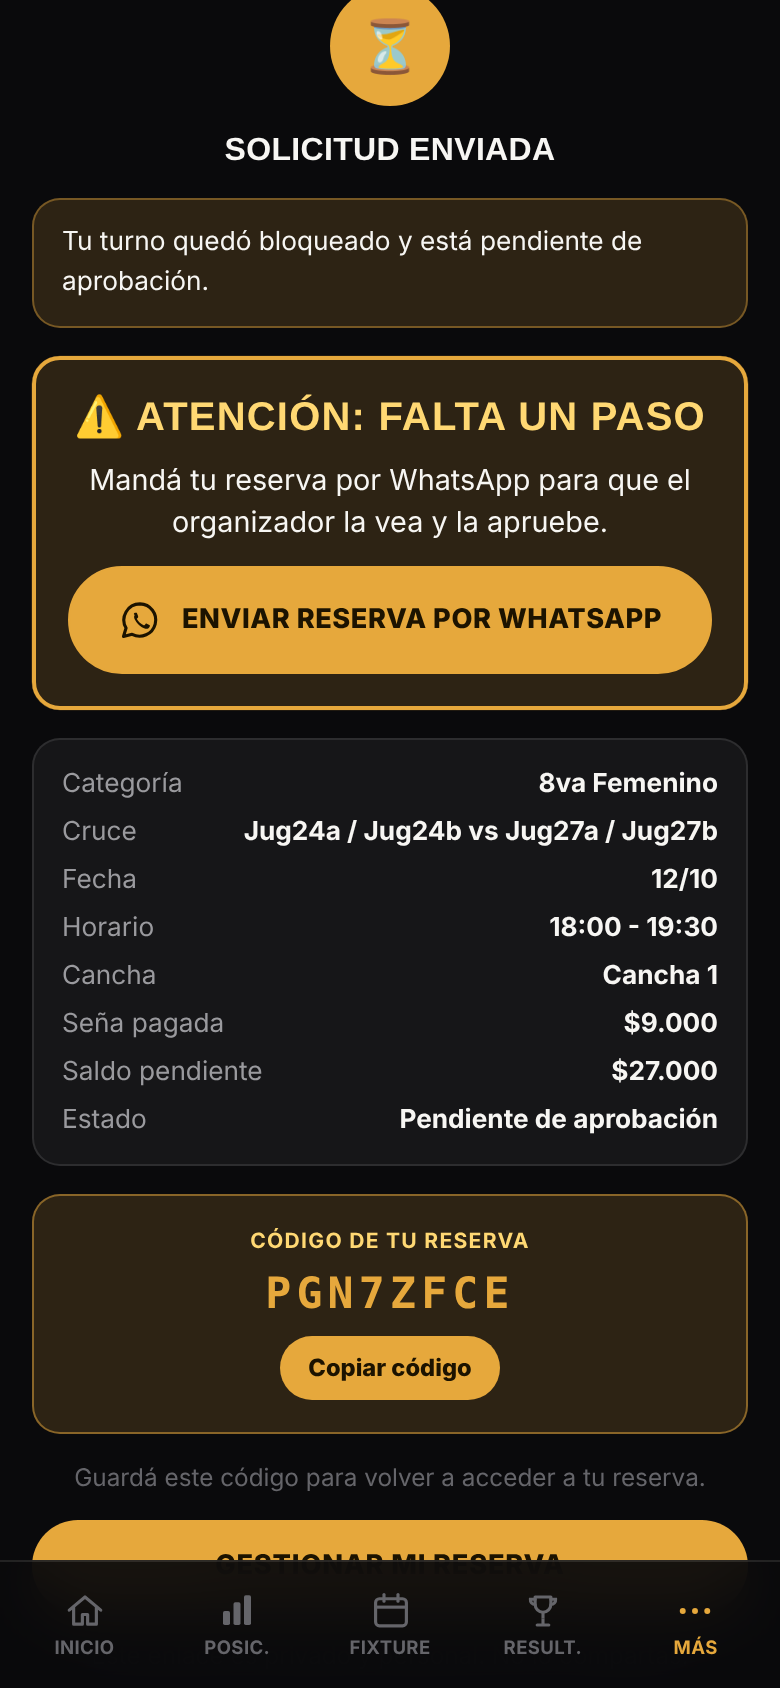
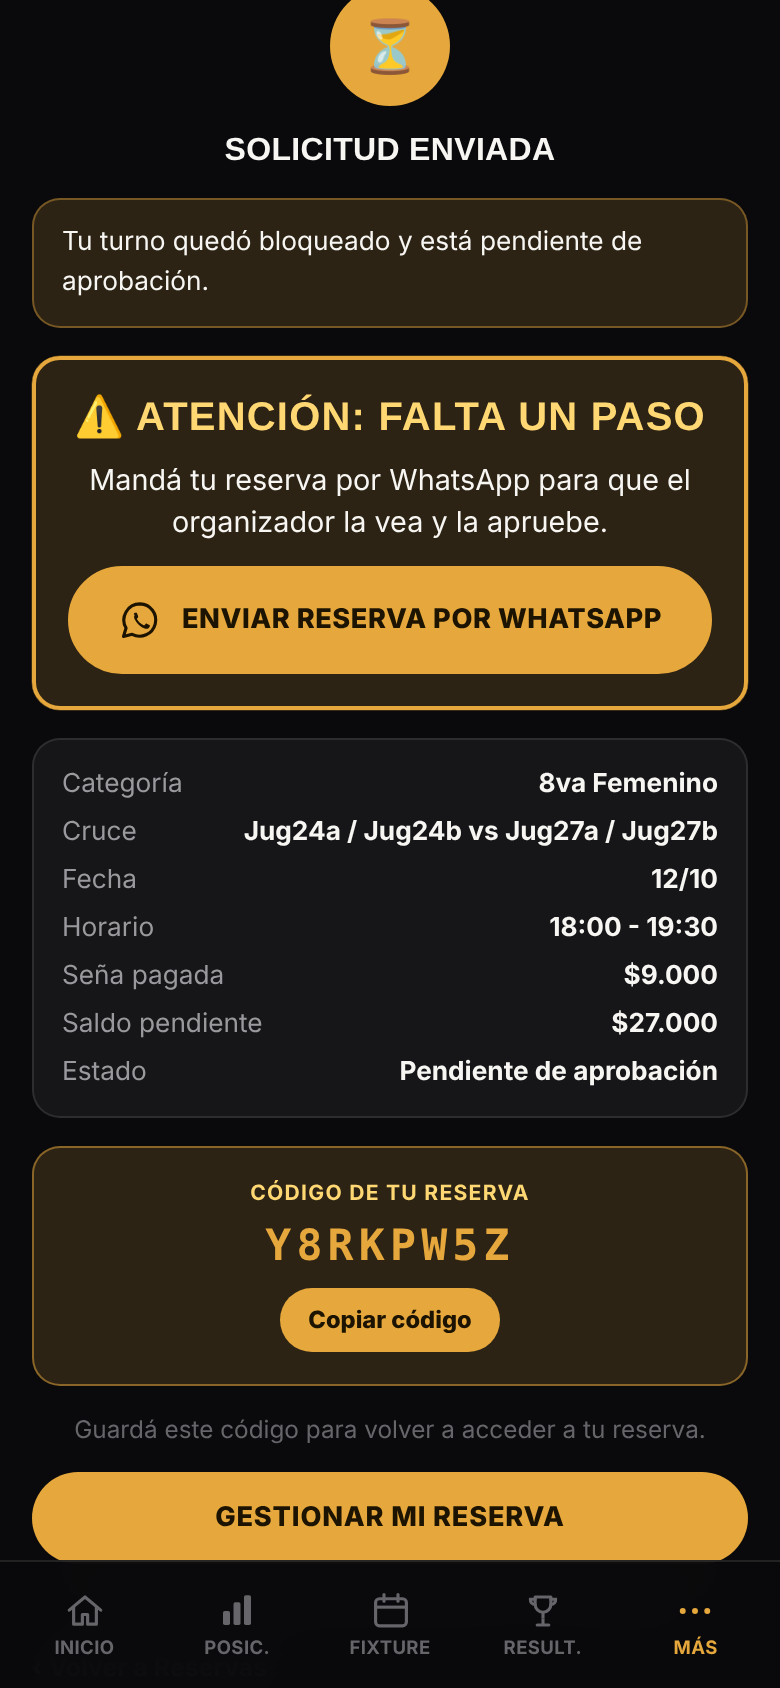
Reservas agrupadas por mes, eliminar reserva, sets sin guion (64 = 6-4) y sin número de cancha para los jugadores
Claude-Session: https://claude.ai/code/session_01FJKeqShRhyuBM813kWYo1L

Changed region(s): [[0.0308, 0.5545, 0.9846, 0.9242]]

diff --git a/organizador.js b/organizador.js
@@ -297,13 +297,31 @@
       if (f === 'pendientes') actualizarBadge(lista.length);
       var cont = $('#orgListaRes');
       if (!lista.length) { cont.innerHTML = '<p class="state-empty">' + VACIO_RES[f] + '</p>'; return; }
-      cont.innerHTML = (f === 'historial' || f === 'completas' || f === 'rechazadas' ? '<p class="org-muted">' + lista.length + ' reserva(s)</p>' : '') +
-        lista.map(tarjetaReserva).join('');
+      if (f === 'pendientes' || f === 'proximas') { cont.innerHTML = lista.map(tarjetaReserva).join(''); return; }
+      cont.innerHTML = '<p class="org-muted">' + lista.length + ' reserva(s)</p>' + porMes(lista);
     }).catch(errorVista);
   }
 
+  var MESES = ['Enero', 'Febrero', 'Marzo', 'Abril', 'Mayo', 'Junio', 'Julio', 'Agosto', 'Septiembre', 'Octubre', 'Noviembre', 'Diciembre'];
+  // Agrupa las reservas por mes del partido (el más reciente primero y abierto).
+  function porMes(lista) {
+    var grupos = {}, orden = [];
+    lista.forEach(function (r) {
+      var k = String(r.fecha || '').slice(0, 7);
+      if (!grupos[k]) { grupos[k] = []; orden.push(k); }
+      grupos[k].push(r);
+    });
+    orden.sort().reverse();
+    return orden.map(function (k, i) {
+      var p = k.split('-');
+      var titulo = p.length === 2 ? MESES[Number(p[1]) - 1] + ' ' + p[0] : 'Sin fecha';
+      return '<details class="org-mes"' + (i === 0 ? ' open' : '') + '><summary><b>' + esc(titulo) + '</b><span class="org-muted">' + grupos[k].length + '</span></summary>' +
+        grupos[k].map(tarjetaReserva).join('') + '</details>';
+    }).join('');
+  }
+
   function mensajeWa(r, tipo) {
-    var base = r.categoria + ': ' + r.parejaA + ' vs ' + r.parejaB + '\n📅 ' + fechaCorta(r.fecha) + ' · ' + r.horarioInicio + ' a ' + r.horarioFin + (r.cancha ? '\n🎾 Cancha ' + r.cancha : '');
+    var base = r.categoria + ': ' + r.parejaA + ' vs ' + r.parejaB + '\n📅 ' + fechaCorta(r.fecha) + ' · ' + r.horarioInicio + ' a ' + r.horarioFin + '';
     var nombre = (r.nombreSolicitante || '').split(' ')[0];
     if (tipo === 'aprobada') return '¡Hola ' + nombre + '! Tu reserva de la Liga Master Pádel 360 quedó CONFIRMADA ✅\n\n' + base + '\nCódigo: ' + r.codigoReserva + '\n\nSaldo a abonar en el club: ' + plata(r.saldoPendiente) + '.';
     if (tipo === 'rechazada') return 'Hola ' + nombre + ', no pudimos confirmar tu solicitud de reserva de la Liga Master Pádel 360:\n\n' + base + '\n\nEl horario quedó libre otra vez. Escribime así lo resolvemos.';
@@ -342,7 +360,7 @@
         return '<input class="org-input org-set" inputmode="numeric" data-set="' + i + '" value="' + esc(p['set' + i]) + '" placeholder="' + (i === 3 ? 'STB' : 'Set ' + i) + '" aria-label="Set ' + i + '">';
       }).join('') +
       '<button class="rsv-btn-aprobar org-guardar-set" data-org="guardar-resultado-res" type="button">Guardar</button></div>' +
-      '<p class="org-muted org-mini">Sets del lado de ' + esc(r.parejaA) + ' (ej: 6-4).</p>' +
+      '<p class="org-muted org-mini">Sets del lado de ' + esc(r.parejaA) + '. Escribí solo los números: 64 = 6-4, 76 = 7-6, 108 = 10-8.</p>' +
     '</div>';
   }
 
@@ -361,13 +379,14 @@
     return '<div class="admin-card org-res org-est-' + e + (r.etapa ? ' org-etapa-' + r.etapa : '') + '" data-res-card="' + esc(r.idReserva) + '" data-res=\'' + esc(JSON.stringify(r)) + '\'>' +
       '<div class="org-res-head"><span class="org-pill">' + esc(etiqueta) + '</span><span class="org-muted">' + esc(r.idReserva) + ' · ' + esc(r.codigoReserva) + '</span></div>' +
       '<div class="org-res-cruce">' + esc(r.parejaA) + ' <span class="org-muted">vs</span> ' + esc(r.parejaB) + '</div>' +
-      '<div class="org-res-meta"><span>' + esc(r.categoria) + '</span><span>📅 ' + esc(fechaCorta(r.fecha)) + ' ' + esc(r.horarioInicio) + '–' + esc(r.horarioFin) + '</span><span>Cancha ' + esc(r.cancha) + '</span></div>' +
+      '<div class="org-res-meta"><span>' + esc(r.categoria) + '</span><span>📅 ' + esc(fechaCorta(r.fecha)) + ' ' + esc(r.horarioInicio) + '–' + esc(r.horarioFin) + '</span></div>' +
       '<div class="org-res-meta"><span>👤 ' + esc(r.nombreSolicitante) + '</span><a href="tel:' + esc(r.telefonoSolicitante) + '">📞 ' + esc(r.telefonoSolicitante) + '</a>' +
         (conDetalle ? '' : '<span>Seña ' + plata(r.montoPagado) + '</span>') + '</div>' +
       (r.comprobanteUrl ? '<a class="admin-comprobante-link" href="' + esc(r.comprobanteUrl) + '" target="_blank" rel="noopener">Ver comprobante</a>' : '<span class="hint-line">Sin comprobante</span>') +
       (conDetalle ? seccionPagos(r) + seccionResultado(r) : '') +
       (acciones ? '<div class="admin-card-actions">' + acciones + '</div>' : '') +
       (e === 'RESERVADO' || (e === 'FINALIZADO' && !(r.partido && r.partido.estado === 'JUGADO')) ? '<button class="org-link org-danger" data-org="cancelar-res" data-id="' + esc(r.idReserva) + '" data-jugada="' + (e === 'FINALIZADO' ? '1' : '') + '" type="button">' + (e === 'FINALIZADO' ? 'Cancelar reserva (no se jugó)' : 'Cancelar turno') + '</button>' : '') +
+      '<button class="org-link org-danger org-eliminar" data-org="eliminar-res" data-id="' + esc(r.idReserva) + '" type="button">Eliminar del sistema</button>' +
       '<div class="org-tras" hidden></div>' +
     '</div>';
   }
@@ -484,7 +503,7 @@
       if (!st.catResultados || cats.indexOf(st.catResultados) === -1) st.catResultados = cats[0];
       var cab = '<div class="org-subtabs">' + cats.map(function (c) {
         return '<button class="chip' + (c === st.catResultados ? ' active' : '') + '" data-org-catres="' + esc(c) + '" type="button">' + esc(c) + '</button>';
-      }).join('') + '</div><div id="orgPartidos"><div class="state-loading">Cargando…</div></div>';
+      }).join('') + '</div><p class="org-muted">Sets del lado de la primera pareja. Escribí solo los números: 64 = 6-4, 76 = 7-6, 108 = 10-8.</p><div id="orgPartidos"><div class="state-loading">Cargando…</div></div>';
       vista().innerHTML = cab;
       return api('adminPartidos', { categoria: st.catResultados }).then(pintarPartidos);
     }).catch(errorVista);
@@ -529,7 +548,7 @@
         }).join('') +
         '<button class="rsv-btn-aprobar org-guardar-set" data-org="guardar-resultado" type="button">Guardar</button>' +
       '</div>' +
-      (p.reserva ? '<div class="org-muted org-mini">Reserva: ' + esc(fechaCorta(p.reserva.fecha)) + ' ' + esc(p.reserva.horarioInicio) + ' · Cancha ' + esc(p.reserva.cancha) + ' · ' + esc(EST_TX[p.reserva.estado]) + '</div>' : '') +
+      (p.reserva ? '<div class="org-muted org-mini">Reserva: ' + esc(fechaCorta(p.reserva.fecha)) + ' ' + esc(p.reserva.horarioInicio) + ' · ' + esc(EST_TX[p.reserva.estado]) + '</div>' : '') +
     '</div>';
   }
 
@@ -809,6 +828,10 @@
         : '¿Cancelar este turno confirmado? El horario y el cruce vuelven a quedar libres.';
       if (!confirm(msj)) return;
       conBoton(el, api('adminCancelarReserva', { idReserva: el.getAttribute('data-id') }), 'Turno cancelado').then(vReservas).catch(function () {});
+    },
+    'eliminar-res': function (el) {
+      if (!confirm('¿Eliminar esta reserva del sistema para siempre? No se puede deshacer. (Si solo no se jugó, usá "Cancelar").')) return;
+      conBoton(el, api('adminEliminarReserva', { idReserva: el.getAttribute('data-id') }), 'Reserva eliminada').then(vReservas).catch(function () {});
     },
     'sem-prev': function () { st.agendaDesde = sumarDias(st.agendaDesde, -7); vAgenda(); },
     'sem-next': function () { st.agendaDesde = sumarDias(st.agendaDesde, 7); vAgenda(); },

diff --git a/cloudflare/worker.js b/cloudflare/worker.js
@@ -78,8 +78,26 @@ function nombresDeTxtPareja(t) {
   const m = /^[A-Za-z]+\d+\s*·\s*(.+)$/.exec(s);
   return m ? m[1].trim() : s;
 }
+// Acepta "6-4", "6/4", "6 4" y también solo números (el teclado del celu no
+// tiene guion): "64" = 6-4, "76" = 7-6, "108" = 10-8, "810" = 8-10, "1210" = 12-10.
+function pareceSetValido(a, b) {
+  const g = Math.max(a, b), p = Math.min(a, b);
+  if (g === 6 && p <= 4) return true;
+  if (g === 7 && (p === 5 || p === 6)) return true;
+  return g >= 10 && g - p >= 2 && (g === 10 || g - p === 2);
+}
 function parsearSet(t) {
-  const m = /^(\d{1,2})\s*[-\/\s]\s*(\d{1,2})$/.exec(txt(t));
+  const s = txt(t).replace(/\s+/g, '');
+  if (/^\d{2,4}$/.test(s)) {
+    for (let i = 1; i < s.length; i++) {
+      const x = s.slice(0, i), y = s.slice(i);
+      if (x.length > 2 || y.length > 2) continue;
+      const a = parseInt(x, 10), b = parseInt(y, 10);
+      if (pareceSetValido(a, b)) return { a, b };
+    }
+    return null;
+  }
+  const m = /^(\d{1,2})\s*[-\/\s.:]\s*(\d{1,2})$/.exec(txt(t));
   if (!m) return null;
   const a = parseInt(m[1], 10), b = parseInt(m[2], 10);
   if (a === b) return null;
@@ -354,7 +372,7 @@ function resolverResultado(set1, set2, set3, idA, idB) {
     const t = txt(s);
     if (!t) return '';
     const p = parsearSet(t);
-    if (!p) falla('El set ' + (i + 1) + ' ("' + t + '") no es válido. Escribilo como 6-4.');
+    if (!p) falla('El set ' + (i + 1) + ' ("' + t + '") no es válido. Escribí los games, por ejemplo 64 (= 6-4) o 108 (= 10-8).');
     return p.a + '-' + p.b;
   });
   let sA = 0, sB = 0;
@@ -922,6 +940,19 @@ async function cambiarEstadoReserva(c, campo, estadoObjetivo) {
 }
 const aAprobarReserva = (c) => cambiarEstadoReserva(c, 'aprobada_ts', EST.RESERVADO);
 const aRechazarReserva = (c) => cambiarEstadoReserva(c, 'rechazada_ts', EST.RECHAZADO);
+
+// Borra una reserva del sistema para siempre (ej: la pareja se dio de baja).
+// Si el partido tenía resultado cargado, el resultado queda; se borra aparte.
+async function aAdminEliminarReserva(c) {
+  await exigirAdmin(c);
+  const id = txt(c.datos.idReserva);
+  const r = await uno(c.db, 'SELECT * FROM reservas WHERE id = ?', id);
+  if (!r) falla('No se encontró esa reserva.');
+  const stmts = [c.db.prepare('DELETE FROM reservas WHERE id = ?').bind(id)];
+  if (r.comprobante_id) stmts.push(c.db.prepare('DELETE FROM archivos WHERE id = ?').bind(r.comprobante_id));
+  await c.db.batch(stmts);
+  return { ok: true, eliminada: id };
+}
 
 async function aAdminCancelarReserva(c) {
   await exigirAdmin(c);
@@ -1574,7 +1605,7 @@ const ACCIONES = {
   confirmarReserva: aConfirmarReserva, consultarReserva: aConsultarReserva, buscarReserva: aBuscarReserva, cancelarReserva: aCancelarReserva,
   // organizador
   adminLogin: aAdminLogin, adminResumen: aAdminResumen, adminReservas: aAdminReservas, listarPendientes: aListarPendientes,
-  aprobarReserva: aAprobarReserva, rechazarReserva: aRechazarReserva, adminCancelarReserva: aAdminCancelarReserva, adminMarcarPago: aAdminMarcarPago,
+  aprobarReserva: aAprobarReserva, rechazarReserva: aRechazarReserva, adminCancelarReserva: aAdminCancelarReserva, adminEliminarReserva: aAdminEliminarReserva, adminMarcarPago: aAdminMarcarPago,
   adminAgenda: aAdminAgenda, adminPartidos: aAdminPartidos, adminGuardarResultado: aAdminGuardarResultado,
   adminFechaEnJuego: aAdminFechaEnJuego, adminFechaEnJuegoTodas: aAdminFechaEnJuegoTodas,
   adminParejas: aAdminParejas, adminGuardarPareja: aAdminGuardarPareja, adminCrearCategoria: aAdminCrearCategoria,

diff --git a/organizador.css b/organizador.css
@@ -192,3 +192,13 @@ select.org-input{appearance:auto}
 .org-libres-clases.is-aviso{color:var(--warn)}
 .org-gfila{flex-wrap:wrap}
 .org-form-bloqueo{background:var(--bg-soft);border:1px solid var(--border-strong);border-radius:var(--radius-md);padding:12px;margin:6px 0}
+
+/* Reservas agrupadas por mes */
+.org-mes { margin: 10px 0; border: 1px solid rgba(255,255,255,.08); border-radius: 14px; padding: 0 12px; background: rgba(255,255,255,.02); }
+.org-mes > summary { list-style: none; cursor: pointer; display: flex; justify-content: space-between; align-items: center; padding: 14px 2px; font-size: 16px; }
+.org-mes > summary::-webkit-details-marker { display: none; }
+.org-mes > summary::after { content: '▾'; margin-left: 8px; opacity: .6; }
+.org-mes:not([open]) > summary::after { content: '▸'; }
+.org-mes > summary .org-muted { margin-left: auto; }
+.org-mes[open] { padding-bottom: 10px; }
+.org-eliminar { opacity: .75; font-size: 13px; }

diff --git a/app.js b/app.js
@@ -1504,7 +1504,6 @@ function reservarPintarExito_(datos) {
     '<div class="rsv-summary-row"><span>Cruce</span><b>' + esc_(datos.parejaA) + ' vs ' + esc_(datos.parejaB) + '</b></div>' +
     '<div class="rsv-summary-row"><span>Fecha</span><b>' + esc_(formatearFechaLarga_(datos.fecha)) + '</b></div>' +
     '<div class="rsv-summary-row"><span>Horario</span><b>' + esc_(formatearHorarioSeguro_(datos.horarioInicio)) + ' - ' + esc_(formatearHorarioSeguro_(datos.horarioFin)) + '</b></div>' +
-    (datos.cancha ? '<div class="rsv-summary-row"><span>Cancha</span><b>Cancha ' + esc_(datos.cancha) + '</b></div>' : '') +
     '<div class="rsv-summary-row"><span>Seña pagada</span><b>' + formatearMonto_(datos.montoPagado) + '</b></div>' +
     '<div class="rsv-summary-row"><span>Saldo pendiente</span><b>' + formatearMonto_(datos.saldoPendiente) + '</b></div>' +
     // El backend siempre devuelve PENDIENTE_APROBACION acá (confirmarReserva

diff --git a/index.html b/index.html
@@ -397,7 +397,7 @@
       <div class="rsv-panel" id="rsv-panel-turno" hidden>
         <button class="rsv-back" data-rsv-back="cruce">‹ Cruce</button>
         <h2 class="rsv-panel-title">Elegí día y horario</h2>
-        <p class="hint-line" id="rsv-turno-hint">La cancha exacta se asigna al confirmar.</p>
+        <p class="hint-line" id="rsv-turno-hint">El día del partido juegan en la cancha que esté libre.</p>
         <div id="rsvDias"><div class="state-loading">Cargando…</div></div>
       </div>
 

diff --git a/cloudflare/PUBLICAR.md b/cloudflare/PUBLICAR.md
@@ -62,3 +62,8 @@ la planilla como antes.
 - App + API en http://localhost:8787: `node --no-warnings cloudflare/test/servidor-local.mjs`
   (contraseña liga `padel360`, organizador `clave-orga`)
 - Recorrido automático en navegador: `python3 cloudflare/test/navegador.py capturas/`
+
+## Antes de publicar (notas de Gabriel)
+
+- Al reimportar la planilla: dejar afuera la reserva R0045 (pidió borrarla del sistema el 12/10).
+- Importar con `forzar: true` y `reiniciarTodo: true` para borrar todo lo cargado en las pruebas.
